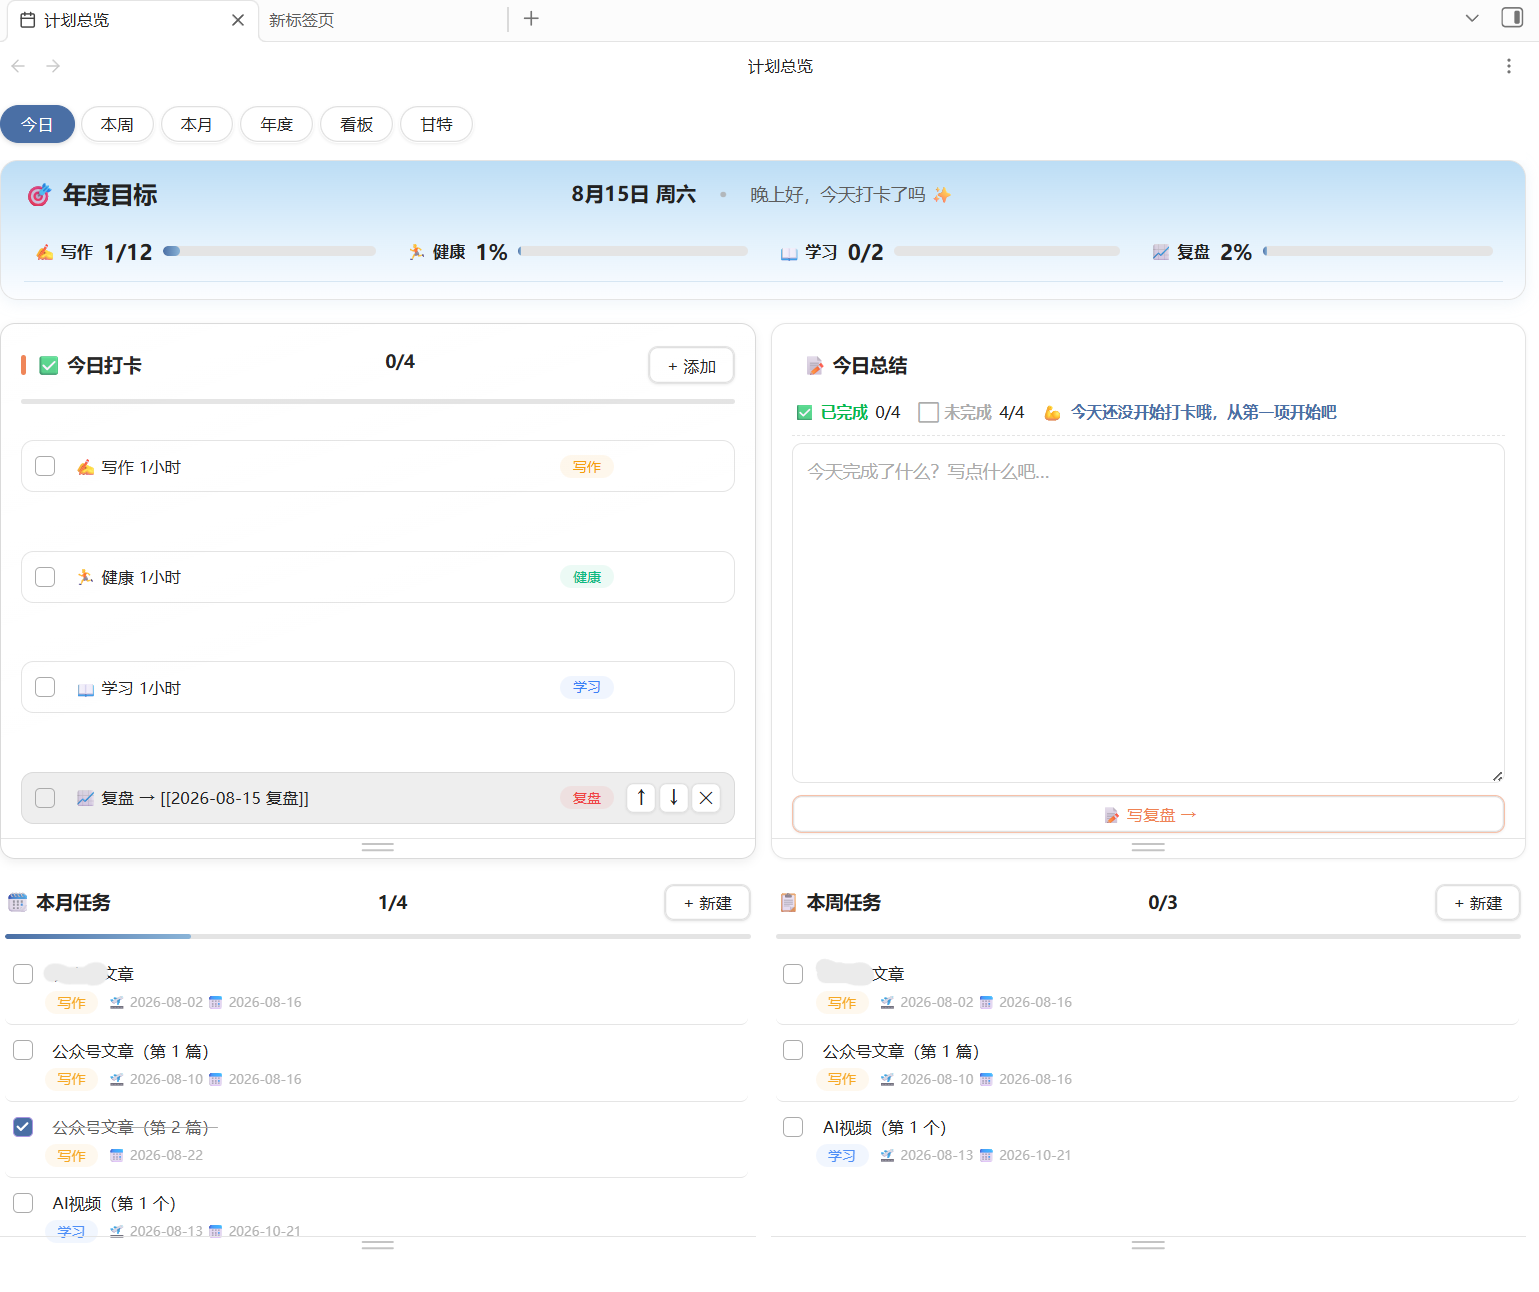
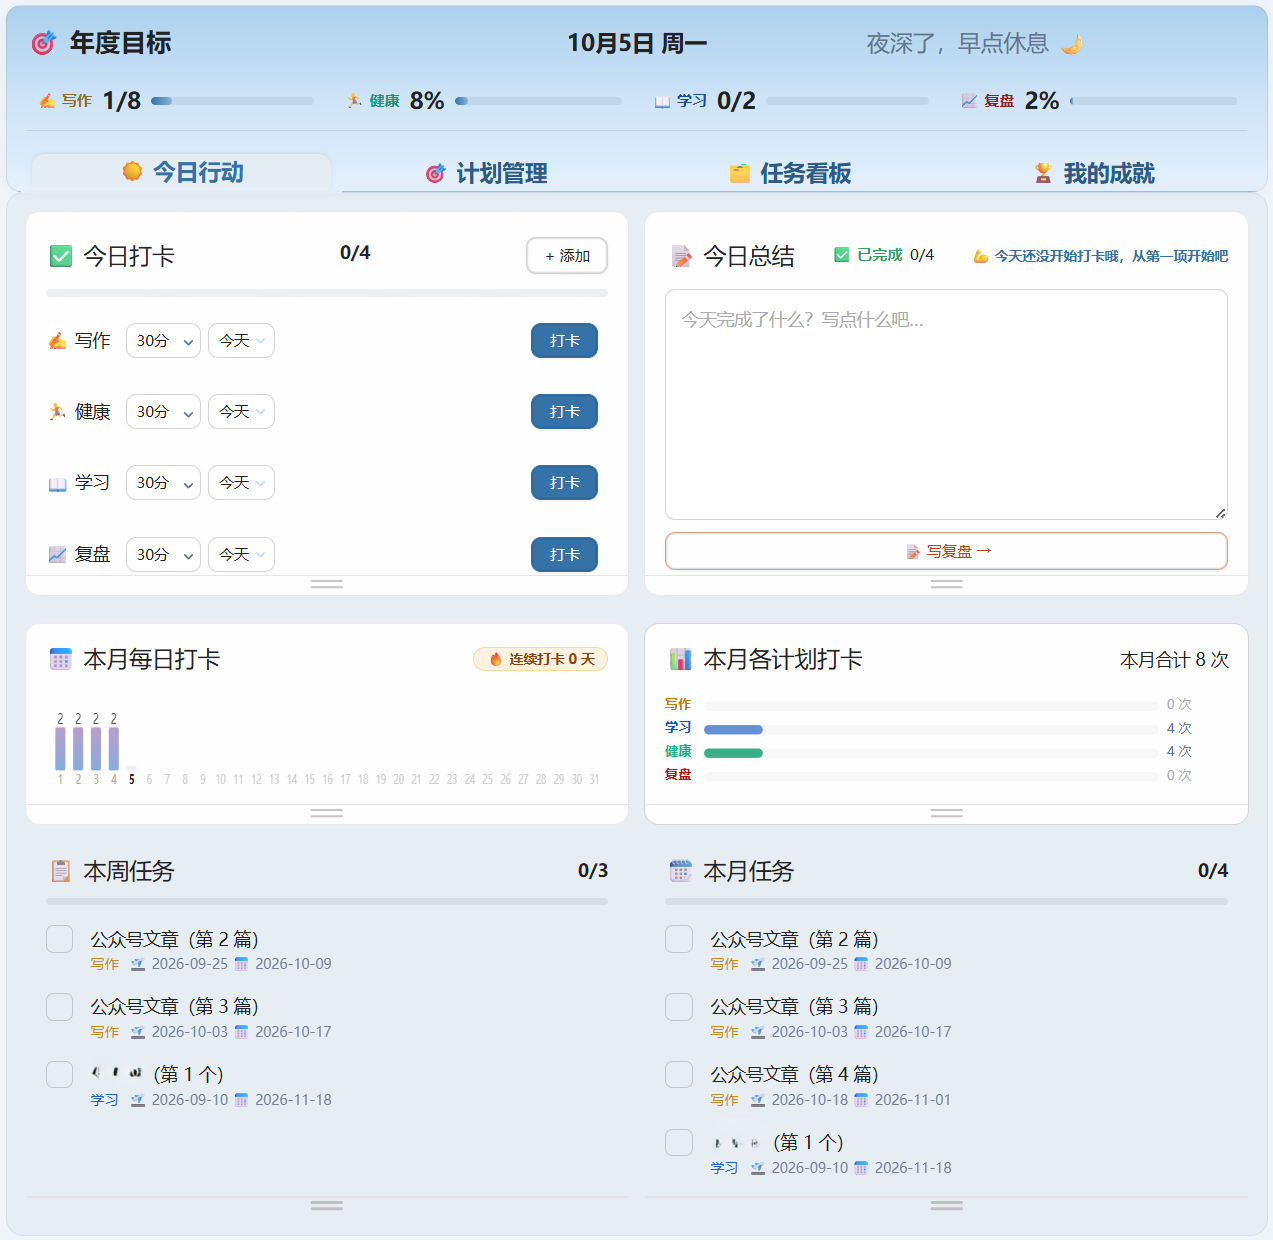
release: 1.1.1 —— 1.1.0 实测反馈修复 + README 截图更新
- 深色模式活动标签开口下方发丝线未盖（补 2px 同色硬阴影）
- 连续打卡口径放宽（当天 ≥1 项算一天，今天完成即计）+ 勾卡链路补连击刷新
- 补卡后首页「本月每日打卡」柱状全消失（completionMap 置 null 后守卫不放行）
- 已完成/鼓励语/连击字号上调；鼓励语精简到 9 字内并排回一行
- README/README.zh-CN 更新四张 1.1.0 界面截图（今日行动/计划管理/任务看板/我的成就）

diff --git a/README.zh-CN.md b/README.zh-CN.md
@@ -44,6 +44,24 @@
 - 🎨 深空蓝主题色 + 珊瑚橙行动区 + 计划色点缀（明暗主题适配）
 - 📝 每日笔记自动生成（代码内模板），总结可自动派生
 
+### 📸 视图一览
+
+**今日行动**——打卡、今日总结、本月图表与周/月任务清单，一屏总览。
+
+![](docs/screenshots/home.png)
+
+**计划管理**——每个计划的打卡行动、量化目标与任务列表。
+
+![](docs/screenshots/plans.png)
+
+**任务看板**——按计划分组的看板，支持状态与甘特形态。
+
+![](docs/screenshots/tasks.png)
+
+**我的成就**——徽章墙、打卡统计环、月度分布、累计曲线与热力图。
+
+![](docs/screenshots/achievements.png)
+
 ## 🚀 安装
 
 ### 方式一：社区插件市场（推荐）

diff --git a/README.md b/README.md
@@ -46,6 +46,24 @@ Other features:
 - 🎨 Deep-space blue theme + coral action areas + per-plan accent colors (light/dark adapt)
 - 📝 Daily notes auto-generated (built-in template), summaries auto-derived
 
+### 📸 Views
+
+**Today** — check-ins, daily summary, monthly charts and week/month task lists at a glance.
+
+![](docs/screenshots/home.png)
+
+**Plans** — per-plan check-in actions, quantified goals and task lists.
+
+![](docs/screenshots/plans.png)
+
+**Tasks** — kanban grouped by plan, with status & Gantt modes.
+
+![](docs/screenshots/tasks.png)
+
+**Achievements** — badge wall, check-in donut, monthly distribution, cumulative curve and heatmap.
+
+![](docs/screenshots/achievements.png)
+
 ## 🚀 Installation
 
 ### Option 1: Community plugins (recommended)
